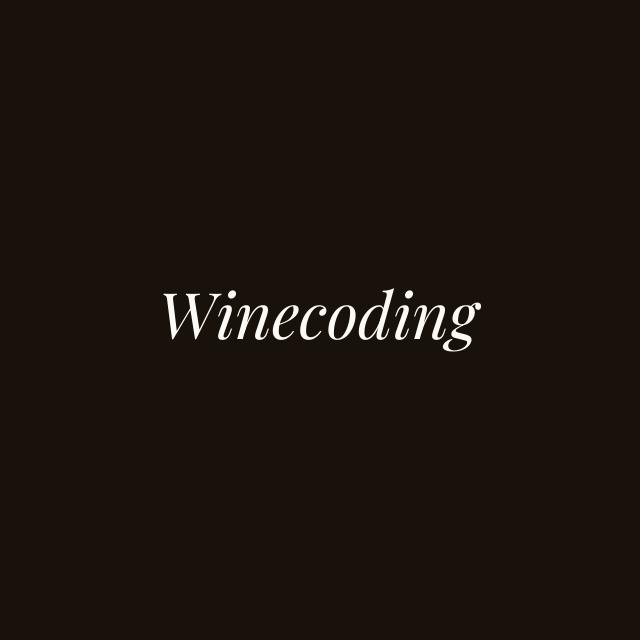
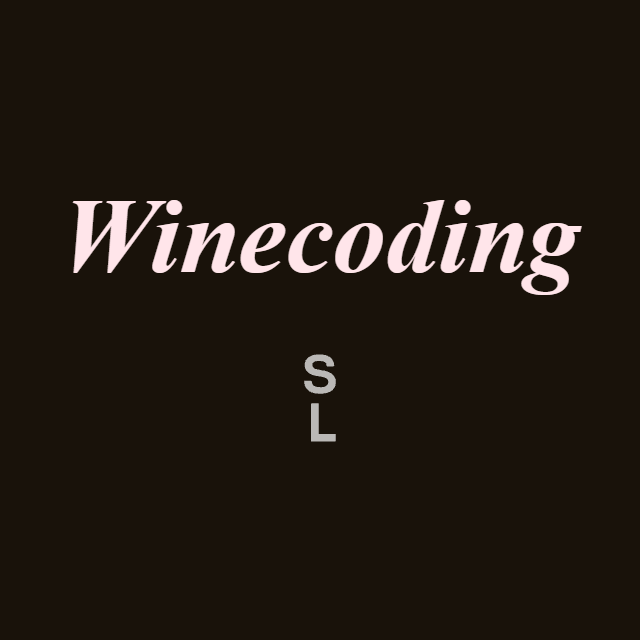
Update copy, assets, and add Luma/WhatsApp resources
- New tagline: "From idea to something real, in good company"
- Updated FAQ: added "Who is it for?", rewrote AI Mad Lab answer,
  linked WhatsApp community, improved "For the curious" card copy
- Luma cover re-cropped for 3.5:1 ratio with heads visible
- Added luma-social.jpg (1.91:1 for social preview)
- Wordmark updated: pink Winecoding + SL symbol
- Added image-prompts.md with Sorolla/Krøyer illustration prompts
- Startuplab logo larger in header, subtitle text shadow for readability

Changed region(s): [[0.0938, 0.3125, 0.9062, 0.6875]]

diff --git a/index.html b/index.html
@@ -3,12 +3,12 @@
 <head>
   <meta charset="UTF-8">
   <meta name="viewport" content="width=device-width, initial-scale=1.0">
-  <title>Winecoding — Learn how to code in good company</title>
+  <title>Winecoding — From idea to something real, in good company</title>
   <meta name="description" content="Winecoding is a free, regular community for curious women who want to learn AI-assisted coding. At Startuplab, Oslo.">
   <link rel="canonical" href="https://winecoding.ai">
 
   <!-- Open Graph -->
-  <meta property="og:title" content="Winecoding — Learn how to code in good company">
+  <meta property="og:title" content="Winecoding — From idea to something real, in good company">
   <meta property="og:description" content="Bring your ideas. We give you the tools, community, and mentorship to build things that work.">
   <meta property="og:image" content="https://winecoding.ai/hero.jpg">
   <meta property="og:url" content="https://winecoding.ai">
@@ -16,7 +16,7 @@
 
   <!-- Twitter -->
   <meta name="twitter:card" content="summary_large_image">
-  <meta name="twitter:title" content="Winecoding — Learn how to code in good company">
+  <meta name="twitter:title" content="Winecoding — From idea to something real, in good company">
   <meta name="twitter:description" content="Bring your ideas. We give you the tools, community, and mentorship to build things that work.">
   <meta name="twitter:image" content="https://winecoding.ai/hero.jpg">
 
@@ -185,8 +185,8 @@
         <h1 class="anim-title font-serif italic font-bold text-6xl sm:text-7xl md:text-8xl lg:text-9xl text-white tracking-tight leading-none">
           Winecoding
         </h1>
-        <p class="anim-sub font-serif italic text-lg sm:text-xl md:text-2xl text-white/70 mt-4 md:mt-6">
-          Sip &amp; Ship — learn how to code in good company
+        <p class="anim-sub font-serif italic text-lg sm:text-xl md:text-2xl text-white/90 mt-4 md:mt-6" style="text-shadow: 0 2px 12px rgba(0,0,0,0.5)">
+          Sip &amp; Ship — from idea to something real, in good company
         </p>
         <div class="anim-cta mt-10">
           <a href="https://lu.ma/winecoding" target="_blank" rel="noopener"
@@ -218,7 +218,7 @@
           <div class="reveal">
             <h3 class="font-serif italic text-xl md:text-2xl text-white mb-3">For the curious</h3>
             <p class="text-white/60 leading-relaxed text-sm md:text-base">
-              Whether you've dabbled or never written a line — if you're leaning in to learn, you belong here.
+              You don't need to be a developer — just someone who wants to turn "what if" into "it works."
             </p>
           </div>
           <div class="reveal">
@@ -247,6 +247,16 @@
         <h2 class="reveal font-serif italic text-3xl md:text-4xl text-white text-center mb-12">Common questions</h2>
 
         <div class="reveal space-y-2" id="faq">
+
+          <div class="faq-item border-b border-white/10">
+            <button class="faq-toggle w-full text-left py-5 flex items-center justify-between gap-4" aria-expanded="false">
+              <span class="font-medium text-white/90">Who is it for?</span>
+              <svg class="faq-chevron w-4 h-4 text-white/40 shrink-0" fill="none" stroke="currentColor" stroke-width="2" viewBox="0 0 24 24"><path d="M6 9l6 6 6-6"/></svg>
+            </button>
+            <div class="faq-answer text-white/60 leading-relaxed text-sm">
+              Winecoding started as a community for women who build with AI. Everyone's welcome, but this is our space, and the vibe reflects that. That said, we're based at Startuplab — so you'll always be surrounded by sharp, diverse people building real things across every background and discipline.
+            </div>
+          </div>
 
           <div class="faq-item border-b border-white/10">
             <button class="faq-toggle w-full text-left py-5 flex items-center justify-between gap-4" aria-expanded="false">
@@ -290,11 +300,11 @@
 
           <div class="faq-item border-b border-white/10">
             <button class="faq-toggle w-full text-left py-5 flex items-center justify-between gap-4" aria-expanded="false">
-              <span class="font-medium text-white/90">What is AI Mad Lab?</span>
+              <span class="font-medium text-white/90">What if I'm already deep into AI?</span>
               <svg class="faq-chevron w-4 h-4 text-white/40 shrink-0" fill="none" stroke="currentColor" stroke-width="2" viewBox="0 0 24 24"><path d="M6 9l6 6 6-6"/></svg>
             </button>
             <div class="faq-answer text-white/60 leading-relaxed text-sm">
-              A monthly meetup for experienced developers and founders. Apply-only. <a href="https://lu.ma/aimadlab" target="_blank" rel="noopener" class="underline text-golden/80 hover:text-golden">Learn more</a>.
+              AI Mad Lab is where the developers, founders, researchers and VCs hang out. Monthly talks on applied AI at Startuplab — models, agents, robotics, the works. Hundreds of builders, invite-only. Think shipping velocity, not sipping wine. <a href="https://lu.ma/aimadlab" target="_blank" rel="noopener" class="underline text-golden/80 hover:text-golden">Learn more</a>.
             </div>
           </div>
 
@@ -314,7 +324,7 @@
               <svg class="faq-chevron w-4 h-4 text-white/40 shrink-0" fill="none" stroke="currentColor" stroke-width="2" viewBox="0 0 24 24"><path d="M6 9l6 6 6-6"/></svg>
             </button>
             <div class="faq-answer text-white/60 leading-relaxed text-sm">
-              Join us on <a href="https://lu.ma/winecoding" target="_blank" rel="noopener" class="underline text-golden/80 hover:text-golden">Luma</a> for events, and our WhatsApp group for the community — tips, questions, and good company between sessions.
+              Join us on <a href="https://lu.ma/winecoding" target="_blank" rel="noopener" class="underline text-golden/80 hover:text-golden">Luma</a> for events, and our <a href="https://chat.whatsapp.com/LiaLOiMniz65QhLly55Kk0" target="_blank" rel="noopener" class="underline text-golden/80 hover:text-golden">WhatsApp community</a> for tips, questions, and good company between sessions.
             </div>
           </div>
 

diff --git a/render-wordmark.html b/render-wordmark.html
@@ -1,0 +1,78 @@
+<!DOCTYPE html>
+<html>
+<head>
+<link href="https://fonts.googleapis.com/css2?family=Playfair+Display:ital,wght@1,700&display=swap" rel="stylesheet">
+<style>
+body { margin: 0; background: #000; display: flex; flex-direction: column; align-items: center; padding: 40px; }
+canvas { border: 1px solid #333; }
+a { color: white; margin-top: 20px; font-size: 18px; }
+</style>
+</head>
+<body>
+<canvas id="c" width="640" height="640"></canvas>
+<a id="dl" download="wordmark-square-dark.png">Loading...</a>
+<script>
+document.fonts.ready.then(() => {
+  const canvas = document.getElementById('c');
+  const ctx = canvas.getContext('2d');
+
+  // Dark background
+  ctx.fillStyle = '#19120A';
+  ctx.fillRect(0, 0, 640, 640);
+
+  // Winecoding in SL brand pink #FFE5EA
+  ctx.fillStyle = '#FFE5EA';
+  ctx.font = 'italic 700 106px "Playfair Display"';
+  ctx.textAlign = 'center';
+  ctx.textBaseline = 'middle';
+  ctx.fillText('Winecoding', 320, 245);
+
+  // SL symbol centered below, white, scale 1.0 (doubled from 0.5)
+  // viewBox 0 0 130.03 195.18
+  ctx.save();
+  ctx.translate(320, 400);
+  const scale = 0.85;
+  ctx.scale(scale, scale);
+  ctx.translate(-65, -100);
+
+  ctx.fillStyle = 'rgba(255, 255, 255, 0.7)';
+  ctx.beginPath();
+  // S path
+  ctx.moveTo(65.01, 92.69);
+  ctx.bezierCurveTo(52.14, 92.69, 46.34, 86.25, 46.34, 77.88);
+  ctx.lineTo(46.98, 77.24); ctx.lineTo(54.7, 77.24); ctx.lineTo(55.34, 77.88);
+  ctx.bezierCurveTo(55.34, 82.39, 57.91, 84.96, 65.64, 84.96);
+  ctx.bezierCurveTo(71.43, 84.96, 74.65, 83.03, 74.65, 79.17);
+  ctx.bezierCurveTo(74.65, 74.66, 72.08, 73.38, 63.06, 72.09);
+  ctx.bezierCurveTo(54.05, 70.8, 46.97, 67.58, 46.97, 58.57);
+  ctx.bezierCurveTo(46.97, 52.13, 52.12, 46.34, 64.35, 46.34);
+  ctx.bezierCurveTo(76.58, 46.34, 81.73, 52.13, 81.73, 59.86);
+  ctx.lineTo(81.09, 60.5); ctx.lineTo(73.37, 60.5); ctx.lineTo(72.73, 59.86);
+  ctx.bezierCurveTo(72.73, 56.0, 70.8, 54.07, 63.72, 54.07);
+  ctx.bezierCurveTo(57.93, 54.07, 56.0, 56.0, 56.0, 58.58);
+  ctx.bezierCurveTo(56.0, 62.44, 58.57, 63.73, 67.59, 65.02);
+  ctx.bezierCurveTo(76.6, 66.31, 83.68, 70.17, 83.68, 79.18);
+  ctx.bezierCurveTo(83.68, 86.26, 78.53, 92.69, 65.01, 92.69);
+  ctx.closePath();
+  // L path
+  ctx.moveTo(83.04, 148.84); ctx.lineTo(55.07, 148.84); ctx.lineTo(54.43, 148.2);
+  ctx.lineTo(54.43, 104.43); ctx.lineTo(55.07, 103.79); ctx.lineTo(62.79, 103.79);
+  ctx.lineTo(63.43, 104.43); ctx.lineTo(63.43, 139.39); ctx.lineTo(64.07, 140.03);
+  ctx.lineTo(83.02, 140.03); ctx.lineTo(83.66, 140.67); ctx.lineTo(83.66, 148.19);
+  ctx.closePath();
+  ctx.fill();
+  ctx.restore();
+
+  // Auto-download
+  const link = document.createElement('a');
+  link.download = 'wordmark-square-dark.png';
+  link.href = canvas.toDataURL('image/png');
+  link.click();
+
+  const dl = document.getElementById('dl');
+  dl.href = canvas.toDataURL('image/png');
+  dl.textContent = 'Click to download again';
+});
+</script>
+</body>
+</html>

diff --git a/image-prompts.md b/image-prompts.md
@@ -1,0 +1,50 @@
+# Winecoding Illustration Prompts
+For use with Nano Banana image model. Two style directions: Sorolla (golden/Mediterranean) and Krøyer (blue hour/Nordic).
+
+---
+
+## Sorolla-style (warm, golden, Mediterranean)
+
+### 1. The Demo Night
+Oil painting in the style of Joaquín Sorolla. A group of diverse women gathered around a large table outdoors at golden hour, Mediterranean terrace overlooking the sea. One woman is standing, gesturing excitedly at her laptop screen while the others lean in, captivated. Wine glasses and a carafe on the table, other laptops open. Warm golden sunlight, loose confident brushstrokes, luminous shadows. The energy of someone showing something they just built.
+
+### 2. The Late Night Ship
+Oil painting in the style of Joaquín Sorolla. A single woman alone at a rustic table on a Mediterranean balcony at night. Her face lit by laptop glow and a single candle. An empty wine glass beside her. She's smiling at the screen — the quiet triumph of shipping something at midnight. Warm amber and deep blue palette, visible brushstrokes, intimate and powerful.
+
+### 3. The Wine Bug
+Oil painting in the style of Joaquín Sorolla. Two women at a sunny café table, laptops open, one pointing at the other's screen with a look of theatrical horror. A wine glass has been knocked over, red wine spreading across the white tablecloth. The other woman is laughing. Mediterranean light, flowers, sea in background. Loose painterly style. The vibe: debugging is better with wine and friends.
+
+---
+
+## Krøyer-style (blue hour, Skagen, Nordic light)
+
+### 4. Blue Hour at Startuplab
+Oil painting in the style of P.S. Krøyer, Skagen school. A group of women walking together along a Nordic beach at blue hour, twilight sky. Some carry laptops under their arms, one holds a wine glass. Bare feet in the sand. That famous Krøyer blue-violet light, long soft shadows on wet sand. Luminous, atmospheric, serene. The feeling of community after a good session.
+
+### 5. The Midsummer Hackathon
+Oil painting in the style of P.S. Krøyer. A long table set outdoors on a Nordic beach at midsummer, white night sky. Women seated around the table with laptops, candles, wine bottles, wildflowers. Soft blue-pink light reflecting off the sea. Linen dresses, relaxed postures, deep conversation. Krøyer's signature luminous skin tones and atmospheric blue shadows.
+
+### 6. Office Hours on the Beach
+Oil painting in the style of P.S. Krøyer, Skagen painters. Three women sitting in a cluster on a Nordic beach, laptops balanced on knees, golden evening light from the side. One is explaining something, gesturing with her hands. A bottle of white wine stuck in the sand between them. Soft dune grass, vast sky. That Krøyer quality of quiet, glowing intimacy.
+
+---
+
+## Playful / humorous
+
+### 7. The Merge Conflict
+Oil painting in the style of Joaquín Sorolla. A dramatic Renaissance-style composition: two women at opposite ends of a long table, both pointing at the same laptop with passionate intensity. Other women around the table watch like spectators at a tennis match. Wine glasses raised mid-air. Mediterranean terrace, golden light. Painted with humor and grandeur — a merge conflict elevated to art.
+
+### 8. It Works On My Machine
+Oil painting in the style of Joaquín Sorolla. A woman standing triumphantly on a chair at a Mediterranean terrace, laptop held above her head like a trophy. Around her, other women are applauding, wine glasses raised in toast. Golden sunset light, sea behind, flowers everywhere. The energy of deploying to production on the first try. Heroic, warm, celebratory.
+
+### 9. The Sommelier Debug
+Oil painting in the style of P.S. Krøyer. A woman holding a wine glass up to the light, examining it with the same intensity her friend next to her is examining code on a laptop screen. Nordic blue hour light, both faces lit with focus and concentration. Parallel compositions — one debugging wine, one debugging code. Atmospheric, witty, beautifully lit.
+
+---
+
+## Style consistency tips
+- Always include "visible brushstrokes, painterly texture"
+- Specify "diverse women" to maintain the inclusive vibe
+- For Sorolla: emphasize "golden light, Mediterranean, luminous shadows"
+- For Krøyer: emphasize "blue hour, Nordic beach, atmospheric light, Skagen"
+- Use the hero image as a style reference if Nano Banana supports it
